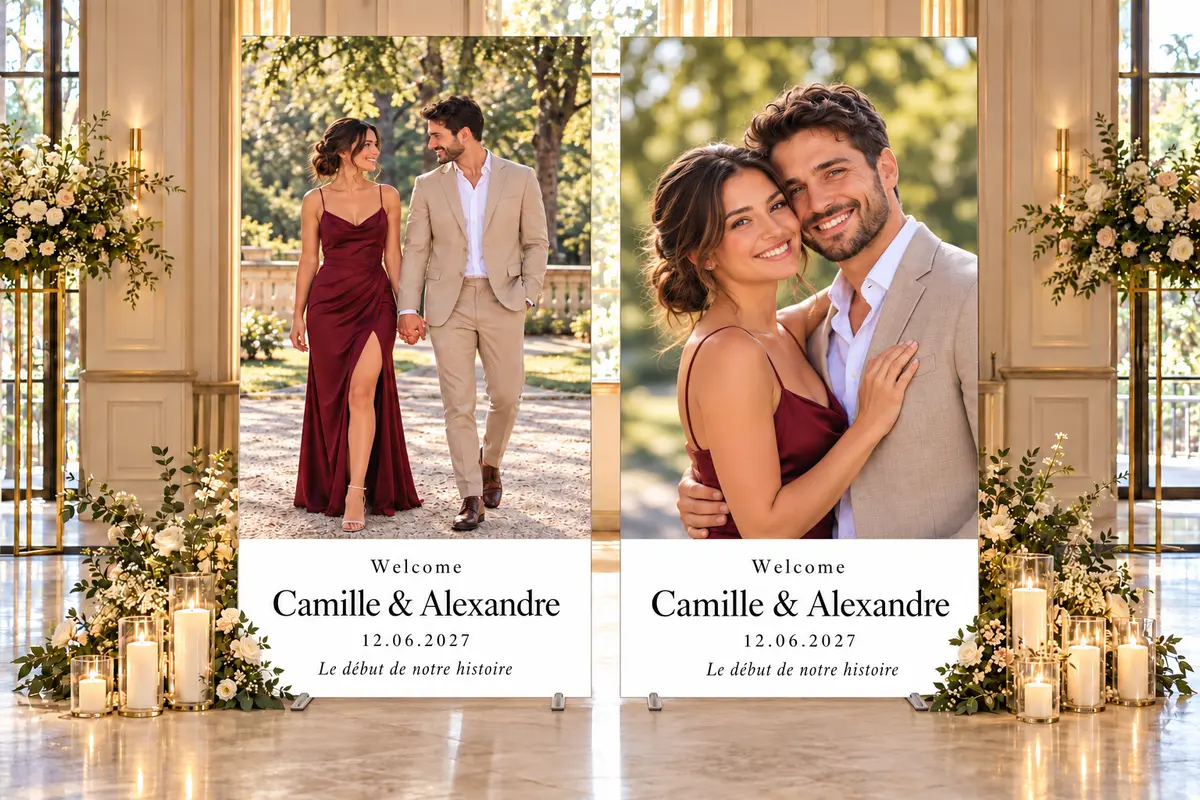
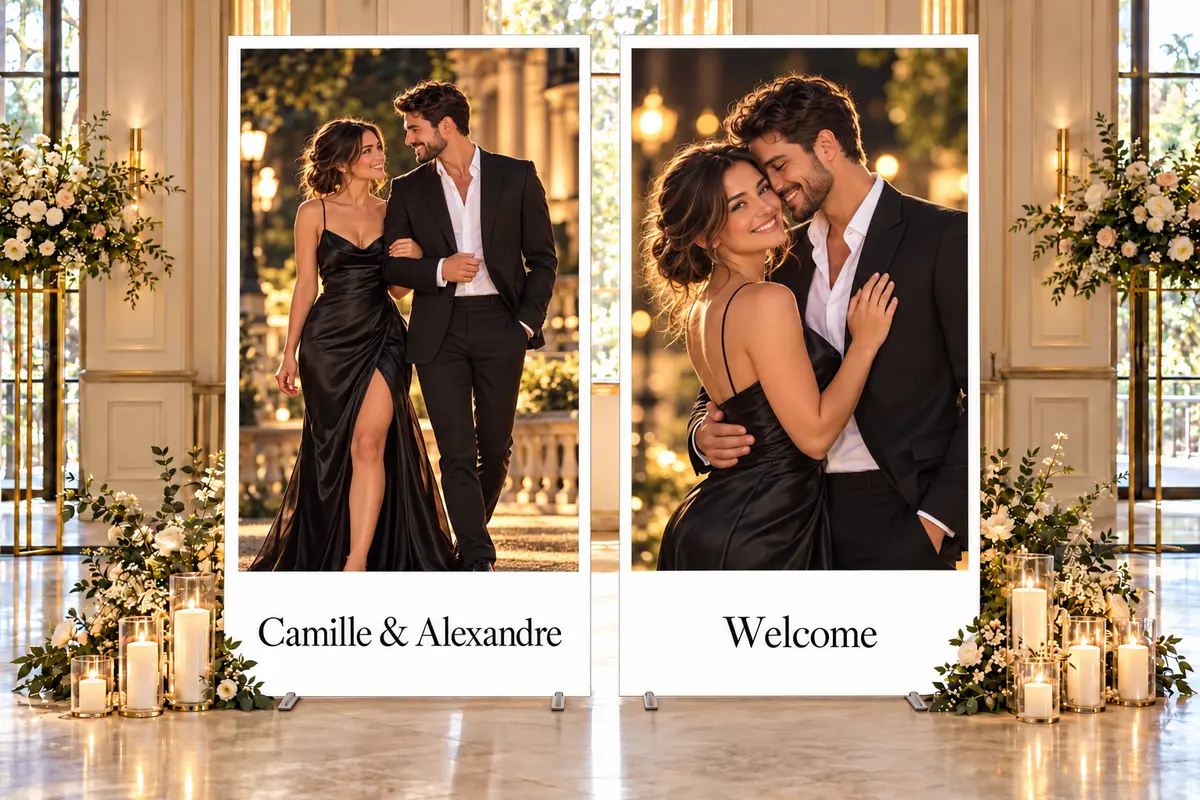
Affiner les panneaux XXL : portraits cinéma, marges blanches et une ligne de texte

diff --git a/src/data/souvenirOptionPages.js b/src/data/souvenirOptionPages.js
@@ -7,7 +7,7 @@ const details = {
     "title": "Des panneaux photo XXL pour raconter votre histoire",
     "metaTitle": "Panneaux photo XXL personnalisés Paris | MySelfieBooth",
     "description": "Personnalisez votre réception avec des panneaux photo XXL de 2 × 1 m : portraits, prénoms, date et message. De 1 à 6 panneaux, à partir de 150 €.",
-    "image": "/images/editorial-ai/panneaux-xxl-duo.webp",
+    "image": "/images/editorial-ai/panneaux-xxl-duo.webp?v=20261102-cinema",
     "imageAlt": "Deux panneaux blancs XXL avec portraits de couple en extérieur, prénoms, date et message sous les photos",
     "highlights": [
         "2 × 1 m par panneau",
@@ -19,7 +19,7 @@ const details = {
             "anchor": "personnalisation",
             "eyebrow": "Votre création",
             "title": "Vos portraits et vos mots accueillent vos invités",
-            "text": "Sur un panneau blanc, votre photo occupe les trois quarts supérieurs. Le quart inférieur accueille vos prénoms, un Welcome, la date ou une courte phrase. Vos images de shooting en extérieur deviennent un décor personnel pour votre mariage, anniversaire ou réception.",
+            "text": "Sur un panneau blanc, votre photo occupe les trois quarts supérieurs. Une marge blanche encadre la photo et le quart inférieur accueille une seule ligne de texte : vos prénoms, un Welcome, la date ou une courte phrase. Vos images de shooting en extérieur deviennent un décor personnel pour votre mariage, anniversaire ou réception.",
             "cards": [
                 {
                     "title": "Vos photos",
@@ -45,7 +45,7 @@ const details = {
     "faq": [
         {
             "question": "Quelles sont les dimensions des panneaux ?",
-            "answer": "Chaque panneau mesure 2 mètres de haut sur 1 mètre de large, avec un fond blanc, une photo en partie haute et votre texte en bas."
+            "answer": "Chaque panneau mesure 2 mètres de haut sur 1 mètre de large, avec un fond blanc, une photo en partie haute et une ligne de texte en bas."
         },
         {
             "question": "Combien coûtent les panneaux photo XXL ?",

diff --git a/src/data/catalog.js b/src/data/catalog.js
@@ -359,7 +359,7 @@ export const machines = [
 ];
 
 export const options = [
-  { name: "Panneaux photo XXL", image: "/images/editorial-ai/panneaux-xxl-duo.webp", href: "/options/panneaux-xxl/", text: "Portraits grand format, prénoms et date sur panneaux blancs de 2 × 1 m. De 1 à 6 panneaux, dès 150 €." },
+  { name: "Panneaux photo XXL", image: "/images/editorial-ai/panneaux-xxl-duo.webp?v=20261102-cinema", href: "/options/panneaux-xxl/", text: "Portraits grand format, prénoms et date sur panneaux blancs de 2 × 1 m. De 1 à 6 panneaux, dès 150 €." },
   { name: "Mur floral", image: "/images/decoration-voguebooth.webp", text: "Décor photo premium pour un rendu plus élégant." },
   { name: "Phonebooth audio", image: "/images/phonebooth.webp", href: "/options/phonebooth", text: "Téléphone livre d'or rétro qui enregistre les messages vocaux." },
   { name: "Porte-clés photo", image: "/images/option-portecle.webp", text: "Tirage personnalisé placé dans un porte-clés souvenir." },

diff --git a/src/components/home/HomeSouvenirFormats.jsx b/src/components/home/HomeSouvenirFormats.jsx
@@ -5,8 +5,8 @@ const formats = [
   {
     key: "panneaux-xxl",
     title: "Panneaux photo XXL",
-    text: "Vos photos de couple en grand format, avec vos prénoms, votre date et votre message.",
-    image: "/images/editorial-ai/panneaux-xxl-quatre.webp",
+    text: "Vos photos de couple en grand format, avec une ligne de texte personnalisée.",
+    image: "/images/editorial-ai/panneaux-xxl-quatre.webp?v=20261102-cinema",
     alt: "Quatre panneaux photo blancs personnalisés avec portraits, prénoms et date",
     href: "/options/panneaux-xxl/",
     linkLabel: "Découvrir les panneaux XXL",
